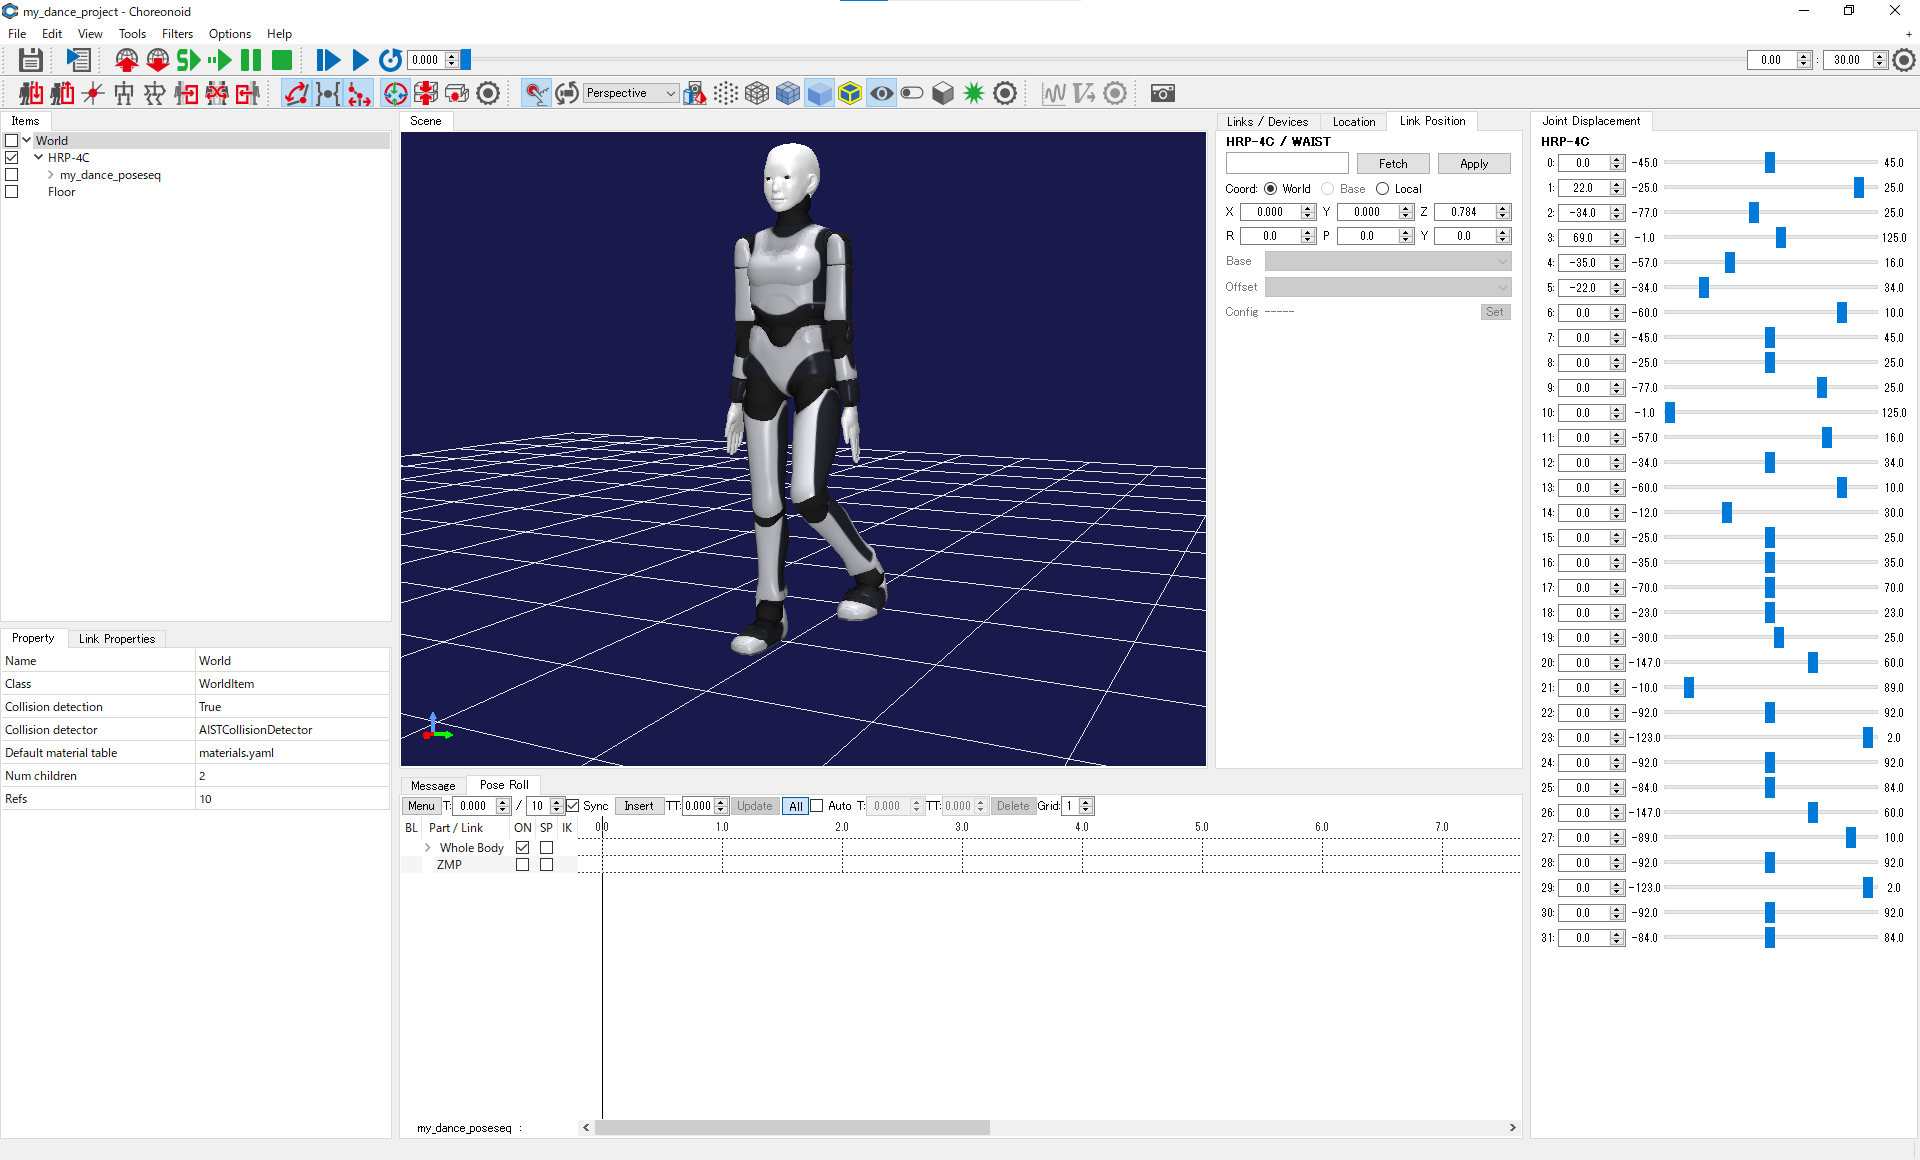
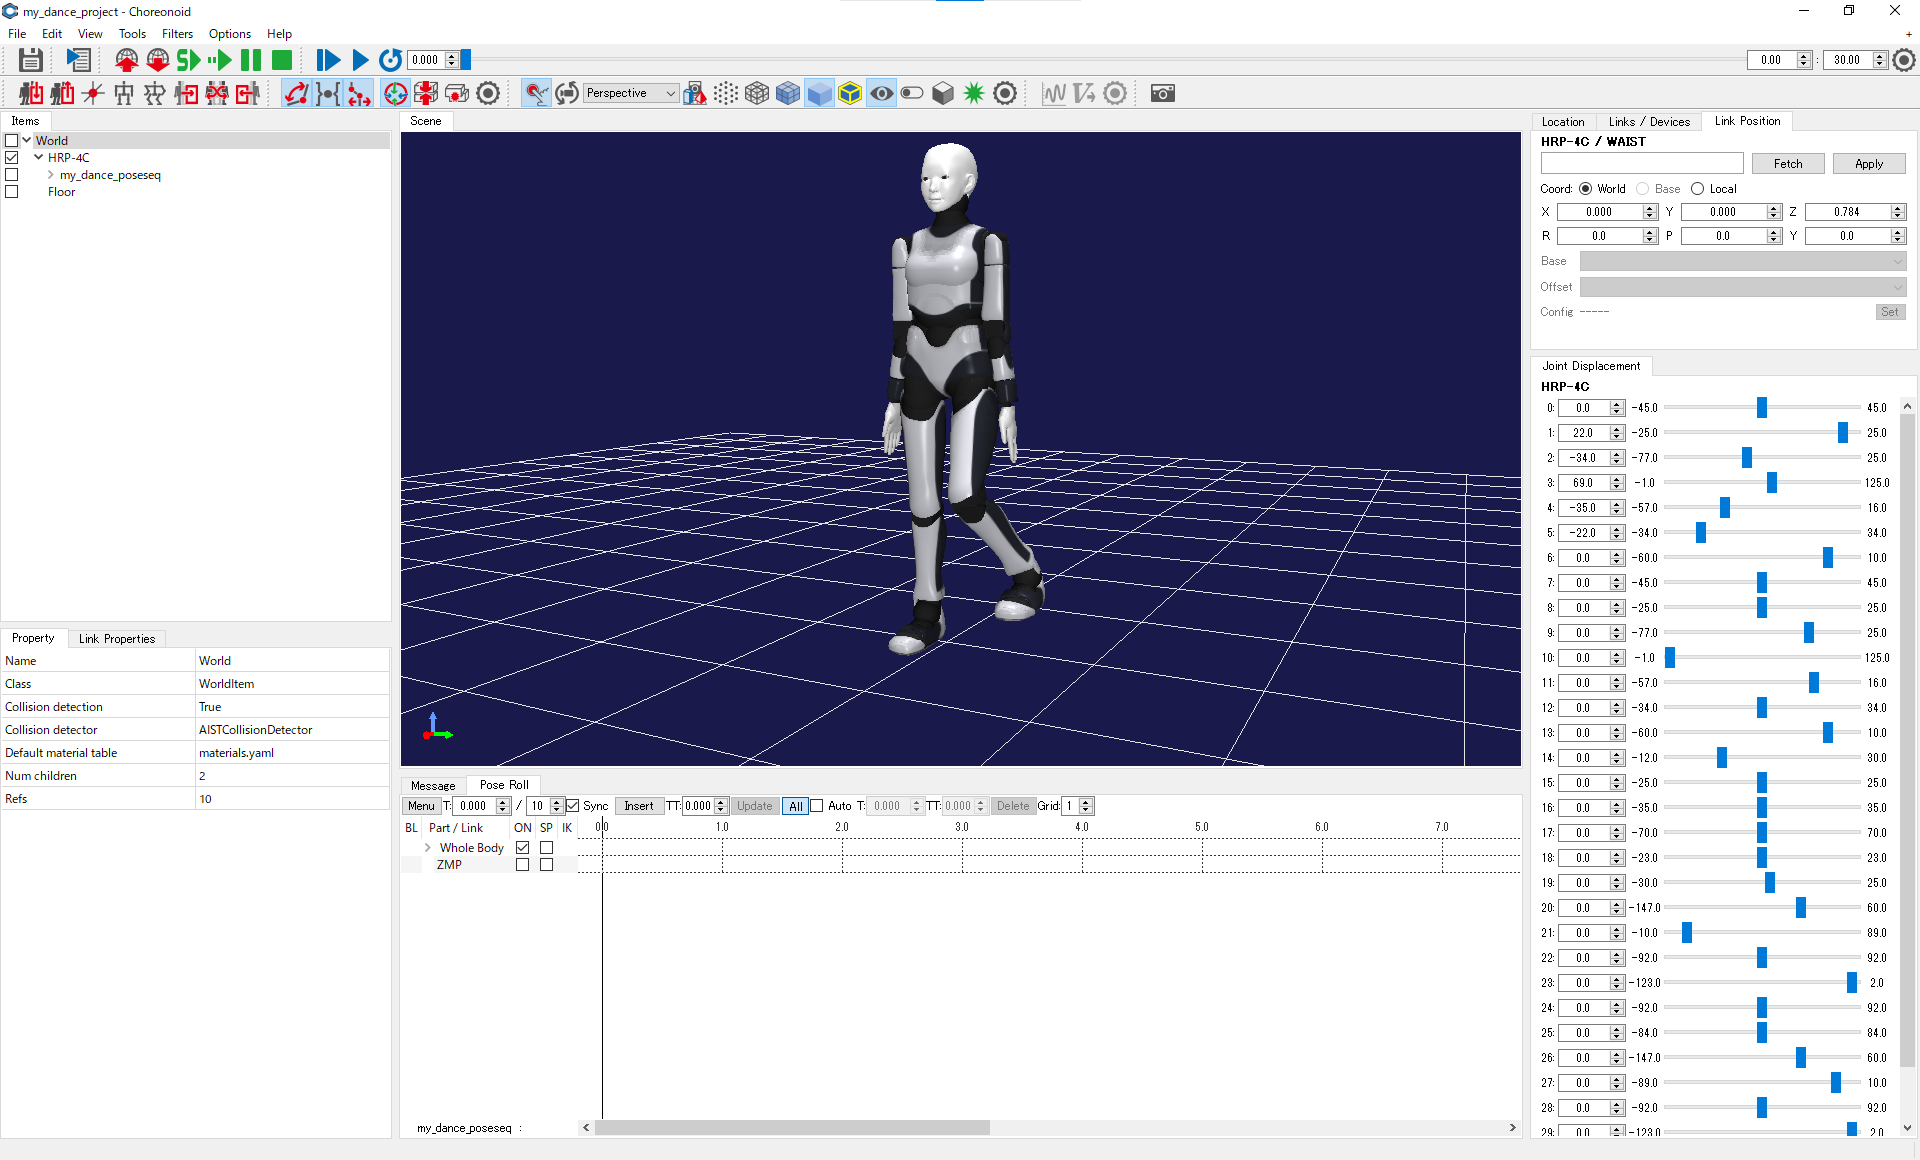
;

Changed region(s): [[0.2188, 0.0931, 1.0, 0.9931]]

diff --git a/choreography_using_choreonoid.md b/choreography_using_choreonoid.md
@@ -80,10 +80,13 @@ The project and pose sequence will be saved to separate files (.cnoid file and .
 - Adjust window layout for pose editing
 
 You can grab the tab of each view and drag it to change the layout of views according to your needs.
-In pose editing, Pose Roll view and Joint Displacement view are often used.
+In pose editing, Pose Roll view and Joint Displacement view are often used, so these views
+ would better be shown bigger.
+Moreover in the Joint Displacement view, you can show joint names in addition to joint IDs by
+ right-clicking its tab and checking "Joint name".
 Shown below is an example layout.
 
-<img src="fig/dance/screen6.png" width="500"/>
+<img src="fig/dance/screen8.png" width="500"/>
 
 
 - Create initial pose
@@ -100,5 +103,15 @@ Moreover, push the button shown below in the tool bar.
 
 <img src="fig/dance/screen7.png" width="200"/>
 
+Now, reset the pose of the robot.
+There are some buttons for reseting the pose of the robot.
+
+<img src="fig/dance/screen9.png" width="200"/>
+
+<img src="fig/dance/screen10.png" width="200"/>
+
+The initial pose is the pose where all joint angles are zero,
+ while the standard pose is a practically more useful starting configuration with knees and elbows bent slightly.
+Here, reset to the standard pose.
 
 
